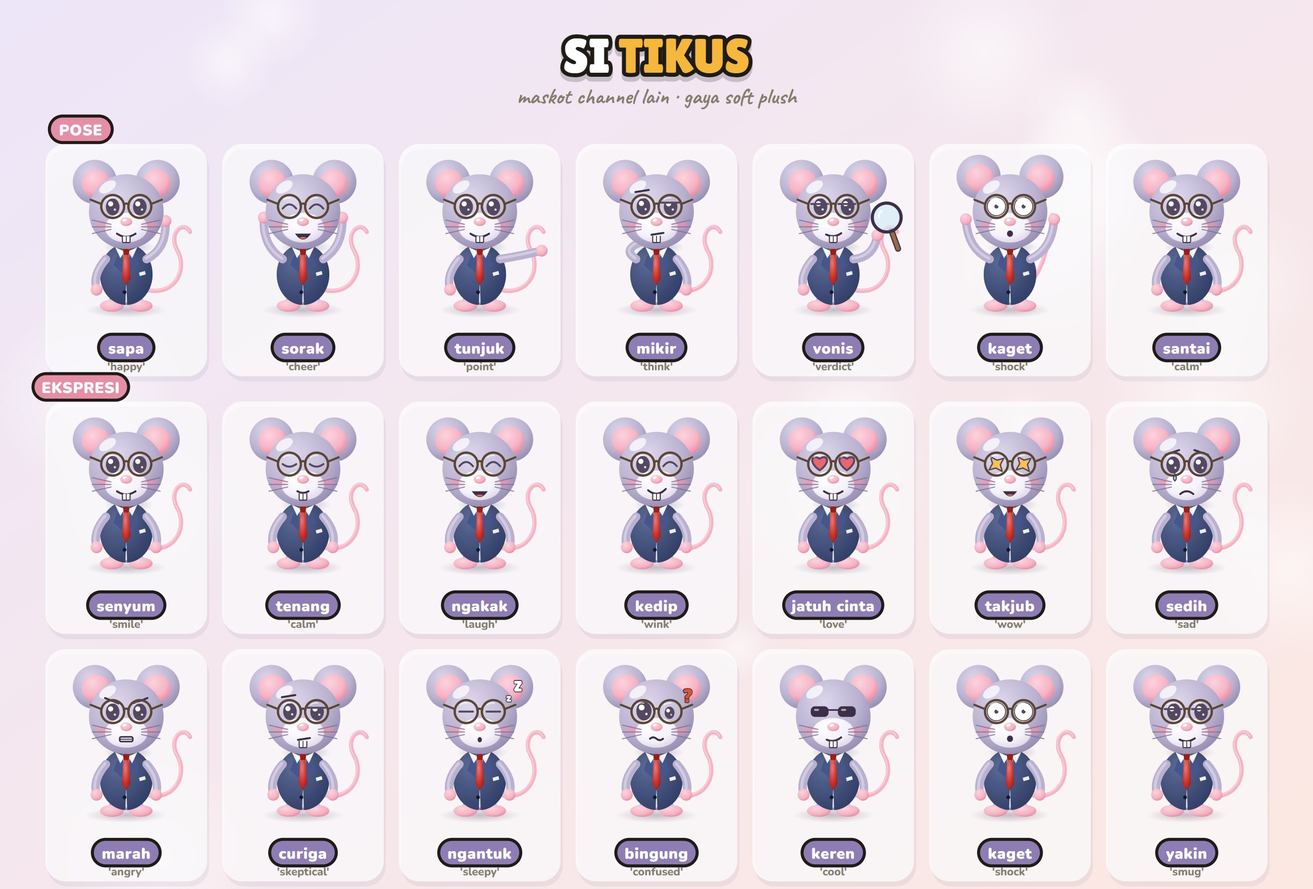
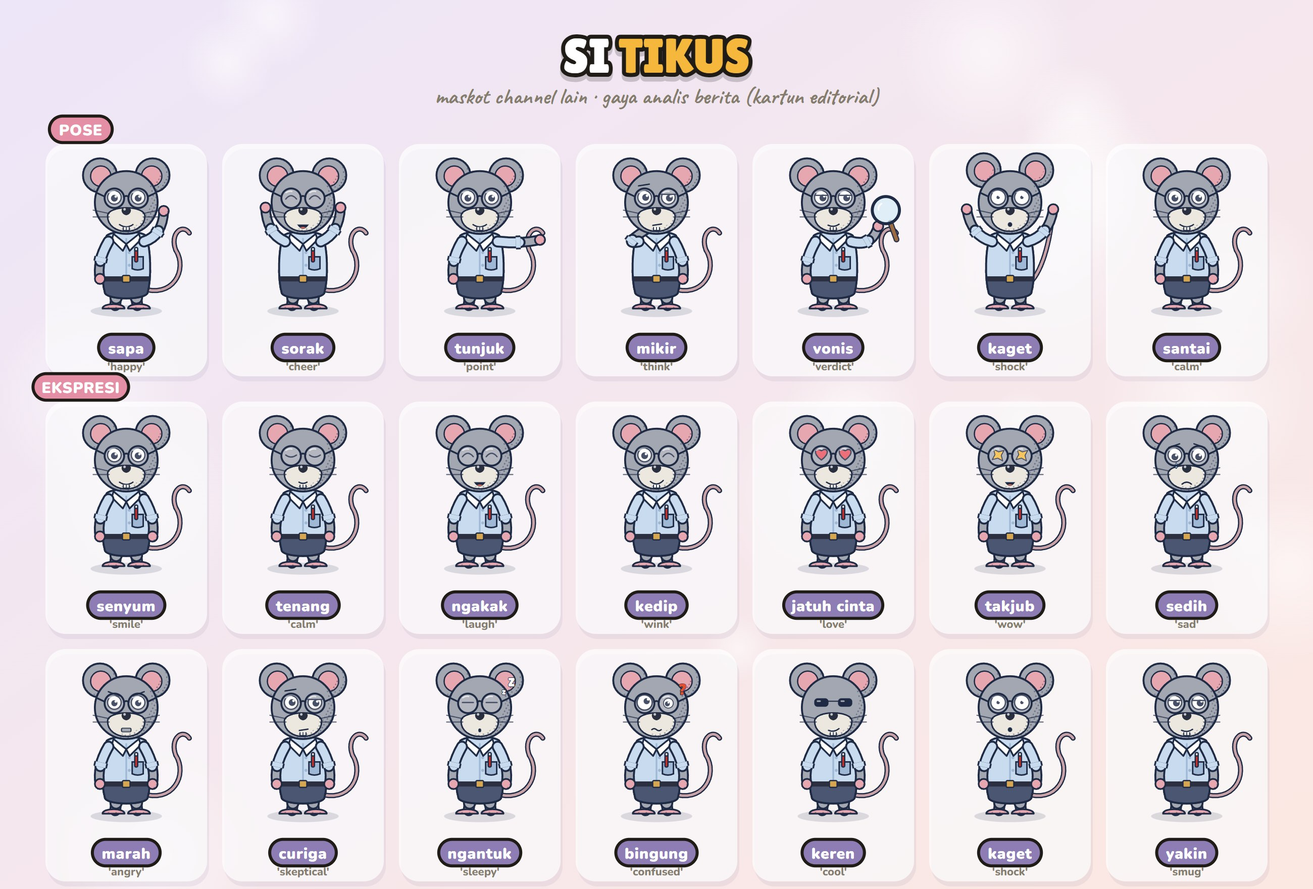
Redraw Si Tikus as a news analyst in an editorial-cartoon style
The soft plush, kawaii mouse in a suit and red tie did not fit a politics and
finance channel (and echoed the "tikus berdasi" meme). Si Tikus is now a grey
mouse with grown-up proportions, thin navy lines and halftone-dot shading like
newsprint, in a rolled-up shirt with trousers, glasses and a pen in the
pocket, and never a necktie.

- engine/tikus.js: same API; outfits analis (default), reporter (PERS card),
  profesor (knitted vest), eksekutif (blazer, open collar), kacamata, none
- vol() draws halftone shading with a thin navy line in the newsprint theme,
  so props match the mascot
- model sheet, outfit sheet labels, channel rules, AGENTS.md and README updated

diff --git a/engine/tikus.js b/engine/tikus.js
@@ -1,132 +1,140 @@
-// Si Tikus: a mascot for another channel, in a soft "plush toy" style — no ink outlines, soft gradient
-// shading, glossy highlights and kawaii eyes (a deliberate contrast with Si Cicak's flat ink look).
+// Si Tikus: mascot of the politics & finance channel, drawn like a newspaper's editorial cartoon: a grey mouse
+// with grown-up proportions, thin navy lines, halftone-dot shading like cheap newsprint, and the look of a news
+// analyst (rolled-up shirt sleeves, glasses, a pen in the pocket). No necktie by default: a mouse in a suit and
+// tie echoes the "tikus berdasi" (corrupt official) meme, see channels/tikus/RULES.md.
 //   tikus(x, y, s, pose, t, rot = 0, walk = null, faceKind = null, outfit = MOUSE.outfit)
-//   same poses and faces as cicak(); outfit: 'none' | 'kacamata' (glasses) | 'profesor' (glasses, bow tie,
-//   knitted vest) | 'reporter' (glasses, ID card on a lanyard) | 'eksekutif' (glasses, blazer, necktie)
-// (0, 0) is the middle of the body; the feet are at y ~110, the ears reach y ~-236.
+//   same poses and faces as cicak(); outfit: 'analis' (default: rolled-up shirt, glasses, pen) | 'reporter'
+//   (analis + PERS card on a lanyard) | 'profesor' (knitted vest over the shirt) | 'eksekutif' (blazer, open
+//   collar, still no tie) | 'kacamata' (glasses only) | 'none'
+// (0, 0) is the middle of the body; the feet are at y ~135, the ears reach y ~-222.
 
 const MOUSE = {
-  fur: '#B9B1CF', furHi: '#DDD7EC', furLo: '#9087AD', belly: '#F4F1F9', bellyLo: '#DCD5EA',
-  pink: '#F6B3C4', pinkHi: '#FCD3DD', pinkLo: '#E2859F', line: '#3B2F4A', whisker: '#7A7094',
-  frame: '#5B4636', outfit: 'eksekutif',  // channel default, chosen by the owner
+  fur: '#A3A7B2', furLo: '#7E8391', muzzle: '#ECE8E0', pink: '#E7A7B0', nose: '#2A2F3F', line: '#1F2A44',
+  shirt: '#C9DBEF', shirtLo: '#9FB8D6', vest: '#D6A651', blazer: '#2E3B63', pen: '#C8312B', tail: '#C9A3A8',
+  outfit: 'analis',
 };
 
-// gradients are defined inside each drawing; repeated ids are identical, so duplicates are harmless
-function tikusDefs() {
-  const m = MOUSE;
-  const rg = (id, a, b, c) => `<radialGradient id="${id}" cx="38%" cy="30%" r="78%"><stop offset="0" stop-color="${a}"/><stop offset="0.62" stop-color="${b}"/><stop offset="1" stop-color="${c}"/></radialGradient>`;
-  return `<defs>${rg('tkFur', m.furHi, m.fur, m.furLo)}${rg('tkPink', m.pinkHi, m.pink, m.pinkLo)}${rg('tkBelly', '#fff', m.belly, m.bellyLo)}` +
-    `<radialGradient id="tkShadow"><stop offset="0" stop-color="#3B2F4A" stop-opacity="0.28"/><stop offset="1" stop-color="#3B2F4A" stop-opacity="0"/></radialGradient>` +
-    `<radialGradient id="tkBlush"><stop offset="0" stop-color="#FF8FA8" stop-opacity="0.7"/><stop offset="1" stop-color="#FF8FA8" stop-opacity="0"/></radialGradient>` +
-    rg('tkNavy', '#5A6A96', '#34416A', '#1F2944') + rg('tkRed', '#EE7A70', '#C8312B', '#962019') +
-    rg('tkKnit', '#F0CD86', '#D6A651', '#B0802C') + rg('tkShirt', '#FFFFFF', '#F3F4F8', '#D9DCE6') +
-    `<clipPath id="tkBody"><ellipse cx="0" cy="30" rx="62" ry="72"/></clipPath></defs>`;
+// halftone dots for the shadow side (identical defs repeat harmlessly)
+const tikusDefs = () => `<defs><pattern id="tkDots" patternUnits="userSpaceOnUse" width="8" height="8" patternTransform="rotate(30)">` +
+  `<circle cx="4" cy="4" r="1.9" fill="${MOUSE.line}" opacity="0.42"/></pattern></defs>`;
+
+// a shape in the editorial look: flat colour, halftone dots on the side away from the light, thin navy outline
+function tkShape(d, fill, { depth = 10, w = 4.5, rot = 0 } = {}) {
+  const id = `tk${VOL_N++}`, a = (-135 - rot) * Math.PI / 180, lx = Math.cos(a) * depth * 1.41, ly = Math.sin(a) * depth * 1.41;
+  return `<defs><clipPath id="${id}a"><path d="${d}"/></clipPath><clipPath id="${id}b"><path d="${d}" transform="translate(${f(lx)} ${f(ly)})"/></clipPath></defs>` +
+    `<path d="${d}" fill="${fill}"/><g clip-path="url(#${id}a)"><path d="${d}" fill="url(#tkDots)"/><g clip-path="url(#${id}b)"><path d="${d}" fill="${fill}"/></g></g>` +
+    (w ? `<path d="${d}" fill="none" stroke="${MOUSE.line}" stroke-width="${w}" stroke-linejoin="round"/>` : '');
 }
 
-// a rounded limb shaded like the body: mid tone with a soft light streak along it
-const plushLimb = (d, w) => `<path d="${d}" fill="none" stroke="${MOUSE.fur}" stroke-width="${w}" stroke-linecap="round" stroke-linejoin="round"/>` +
-  `<path d="${d}" fill="none" stroke="${MOUSE.furHi}" stroke-width="${f(w * 0.32)}" stroke-linecap="round" opacity="0.7" transform="translate(-2 -2)"/>`;
-const gloss = (x, y, rx, ry, rot = -30, o = 0.7) => `<ellipse cx="${x}" cy="${y}" rx="${rx}" ry="${ry}" fill="#fff" opacity="${o}" transform="rotate(${rot} ${x} ${y})"/>`;
-
-// clothes on the body (under the arms) and at the neck (over the chin), per outfit
-function tikusOutfitBody(outfit) {
-  if (outfit === 'profesor' || outfit === 'eksekutif') {
-    const fill = outfit === 'profesor' ? 'url(#tkKnit)' : 'url(#tkNavy)';
-    let o = `<ellipse cx="0" cy="40" rx="40" ry="56" fill="url(#tkShirt)"/>`;
-    o += `<g clip-path="url(#tkBody)"><path d="M-90,-60 L-12,-60 L0,46 L-4,150 L-90,150 Z M90,-60 L12,-60 L0,46 L4,150 L90,150 Z" fill="${fill}"/>`;
-    if (outfit === 'profesor') {
-      for (let x = -54; x <= 54; x += 12) if (Math.abs(x) > 14) o += `<line x1="${x}" y1="-40" x2="${x}" y2="110" stroke="#9C7426" stroke-width="2" opacity="0.35"/>`;
-      o += `<path d="M-60,96 Q0,112 60,96" fill="none" stroke="#9C7426" stroke-width="6" opacity="0.5"/>`;
-      [56, 76].forEach(y => o += `<circle cx="-7" cy="${y}" r="4.5" fill="#7A5A22"/>`);
-    } else {
-      o += `<path d="M-12,-40 L-30,8 L-6,30 Z M12,-40 L30,8 L6,30 Z" fill="#46568A"/>`;
-      o += `<path d="M30,26 L44,22 L46,30 L32,34 Z" fill="#fff" opacity="0.9"/>`;
-      o += `<path d="M-6,-20 L6,-20 L10,40 L0,56 L-10,40 Z" fill="url(#tkRed)"/>`;
-      o += `<circle cx="-4" cy="72" r="4.5" fill="#141A2E"/>`;
-    }
-    return o + `</g>`;
+// a limb as a navy-edged tube; the upper half can be sleeve, the lower half fur
+function tkLimb(x0, y0, kx, ky, x1, y1, w, upper, lower) {
+  const mx = 0.25 * x0 + 0.5 * kx + 0.25 * x1, my = 0.25 * y0 + 0.5 * ky + 0.25 * y1;
+  const top = `M${f(x0)},${f(y0)} Q${f((x0 + kx) / 2)},${f((y0 + ky) / 2)} ${f(mx)},${f(my)}`;
+  const bot = `M${f(mx)},${f(my)} Q${f((kx + x1) / 2)},${f((ky + y1) / 2)} ${f(x1)},${f(y1)}`;
+  const tube = (d, col, ww) => `<path d="${d}" fill="none" stroke="${MOUSE.line}" stroke-width="${ww + 9}" stroke-linecap="round"/>` +
+    `<path d="${d}" fill="none" stroke="${col}" stroke-width="${ww}" stroke-linecap="round"/>`;
+  let s = tube(bot, lower, w * 0.85) + tube(top, upper, w);
+  if (upper !== lower) {  // the sleeve rolled up into a fat cuff just above the elbow
+    const dx = x1 - x0, dy = y1 - y0, l = Math.hypot(dx, dy) || 1, ux = dx / l, uy = dy / l;
+    const cuff = `M${f(mx - ux * 9)},${f(my - uy * 9)} L${f(mx + ux * 2)},${f(my + uy * 2)}`;
+    s += `<path d="${cuff}" stroke="${MOUSE.line}" stroke-width="${f(w * 1.3 + 8)}" stroke-linecap="butt"/>` +
+      `<path d="${cuff}" stroke="${upper}" stroke-width="${f(w * 1.3)}" stroke-linecap="butt"/>`;
   }
-  if (outfit === 'reporter') {
-    return `<path d="M-18,-34 Q-22,4 -10,26 M18,-34 Q22,4 10,26" fill="none" stroke="#34416A" stroke-width="6" stroke-linecap="round"/>` +
-      `<rect x="-30" y="22" width="60" height="74" rx="8" fill="#5B4A78" opacity="0.15" transform="translate(3 4)"/>` +
-      `<rect x="-30" y="22" width="60" height="74" rx="8" fill="url(#tkShirt)"/>` +
-      `<rect x="-30" y="22" width="60" height="18" rx="8" fill="#C8312B"/><rect x="-30" y="32" width="60" height="8" fill="#C8312B"/>` +
-      `<circle cx="-12" cy="58" r="9" fill="#B9B1CF"/><line x1="2" y1="54" x2="20" y2="54" stroke="#9BA1B3" stroke-width="4" stroke-linecap="round"/>` +
-      `<line x1="2" y1="66" x2="16" y2="66" stroke="#9BA1B3" stroke-width="4" stroke-linecap="round"/><line x1="-20" y1="82" x2="20" y2="82" stroke="#9BA1B3" stroke-width="4" stroke-linecap="round"/>`;
-  }
-  return '';
-}
-
-function tikusOutfitNeck(outfit) {
-  if (outfit === 'profesor')
-    return `<path d="M0,-28 L-30,-42 Q-36,-28 -30,-14 Z M0,-28 L30,-42 Q36,-28 30,-14 Z" fill="url(#tkRed)"/><ellipse cx="0" cy="-28" rx="8" ry="9" fill="#962019"/>`;
-  if (outfit === 'eksekutif')
-    return `<path d="M-26,-34 L-4,-24 L-14,-8 Z M26,-34 L4,-24 L14,-8 Z" fill="url(#tkShirt)"/><path d="M-8,-30 L8,-30 L6,-16 L-6,-16 Z" fill="#962019"/>`;
-  return '';
+  return s;
 }
 
 function tikusGlasses() {
-  const fr = MOUSE.frame;
-  return [-32, 32].map(x => `<circle cx="${x}" cy="-130" r="27" fill="#fff" opacity="0.12"/>` +
-      `<circle cx="${x}" cy="-130" r="27" fill="none" stroke="${fr}" stroke-width="5.5"/>` +
-      `<path d="M${x - 14},-146 Q${x - 6},-152 ${x + 2},-150" fill="none" stroke="#fff" stroke-width="3" stroke-linecap="round" opacity="0.6"/>`).join('') +
-    `<path d="M-6,-134 Q0,-140 6,-134" fill="none" stroke="${fr}" stroke-width="5" stroke-linecap="round"/>` +
-    `<path d="M-59,-136 L-84,-146 M59,-136 L84,-146" stroke="${fr}" stroke-width="5" stroke-linecap="round"/>`;
+  const L = MOUSE.line;
+  return [-28, 28].map(x => `<circle cx="${x}" cy="-128" r="23" fill="#fff" fill-opacity="0.18" stroke="${L}" stroke-width="4.5"/>` +
+    `<path d="M${x - 12},-141 Q${x - 5},-146 ${x + 2},-144" fill="none" stroke="#fff" stroke-width="3" stroke-linecap="round" opacity="0.7"/>`).join('') +
+    `<path d="M-6,-131 Q0,-136 6,-131" fill="none" stroke="${L}" stroke-width="4" stroke-linecap="round"/>` +
+    `<path d="M-51,-132 L-68,-140 M51,-132 L68,-140" stroke="${L}" stroke-width="4" stroke-linecap="round"/>`;
+}
+
+// clothes over the torso, per outfit (the torso path is passed in so the clothes can be clipped to it)
+function tikusClothes(outfit, torso) {
+  const m = MOUSE, L = m.line;
+  if (outfit === 'none' || outfit === 'kacamata') return '';
+  const id = `tkc${VOL_N++}`;
+  let s = `<defs><clipPath id="${id}"><path d="${torso}"/></clipPath></defs><g clip-path="url(#${id})">`;
+  s += tkShape('M-80,-60 L80,-60 L80,140 L-80,140 Z', m.shirt, { depth: 12, w: 0 });
+  s += `<path d="M0,-34 L0,96" stroke="${m.shirtLo}" stroke-width="4"/>` + [0, 30, 60].map(y => `<circle cx="7" cy="${y}" r="3.5" fill="${m.shirtLo}"/>`).join('');
+  // trousers and a belt, so the shirt reads as a shirt
+  s += tkShape('M-80,62 L80,62 L80,140 L-80,140 Z', '#4A5672', { depth: 8, w: 0 }) + `<path d="M-80,62 L80,62" stroke="${L}" stroke-width="4"/>` +
+    `<rect x="-80" y="56" width="160" height="12" fill="#2B2F3F"/><rect x="-9" y="54" width="18" height="16" rx="3" fill="${m.vest}" stroke="${L}" stroke-width="3"/>`;
+  if (outfit === 'profesor') {
+    s += tkShape('M-80,-30 L-14,-30 L0,24 L14,-30 L80,-30 L80,66 L-80,66 Z', m.vest, { depth: 10, w: 4 });
+    for (let x = -60; x <= 60; x += 14) if (Math.abs(x) > 18) s += `<line x1="${x}" y1="-14" x2="${x}" y2="56" stroke="#9C7426" stroke-width="2" opacity="0.4"/>`;
+  }
+  if (outfit === 'eksekutif') {
+    s += tkShape('M-80,-60 L-16,-40 L-4,40 L-6,140 L-80,140 Z', m.blazer, { depth: 8, w: 4 }) + tkShape('M80,-60 L16,-40 L4,40 L6,140 L80,140 Z', m.blazer, { depth: 8, w: 4 });
+    s += `<path d="M-16,-40 L-34,6 L-8,20 Z M16,-40 L34,6 L8,20 Z" fill="#46568A" stroke="${L}" stroke-width="3"/>`;
+  }
+  s += `</g>`;
+  // open collar, no tie
+  s += `<path d="M-30,-44 L0,-20 L-8,-4 L-34,-30 Z M30,-44 L0,-20 L8,-4 L34,-30 Z" fill="#fff" stroke="${L}" stroke-width="4" stroke-linejoin="round"/>`;
+  if (outfit !== 'eksekutif') {  // shirt pocket with a pen, the analyst's badge of office
+    s += `<path d="M14,10 L40,10 L40,38 Q27,44 14,38 Z" fill="${m.shirtLo}" stroke="${L}" stroke-width="3.5"/>`;
+    s += `<rect x="20" y="-8" width="7" height="30" rx="3" fill="${m.pen}" stroke="${L}" stroke-width="3"/><rect x="20" y="-12" width="7" height="8" rx="3" fill="#E9E5DC" stroke="${L}" stroke-width="3"/>`;
+  }
+  if (outfit === 'reporter') {
+    s += `<path d="M-22,-40 Q-30,10 -12,46 M22,-40 Q30,10 12,46" fill="none" stroke="${m.pen}" stroke-width="5" stroke-linecap="round"/>`;
+    s += tkShape(rectD(-30, 40, 60, 70, 8), '#FFFFFF', { depth: 6, w: 4 }) + `<rect x="-30" y="40" width="60" height="18" rx="6" fill="${m.pen}"/>`;
+    s += txt('PERS', 0, 50, 15, '#fff', 900) + `<circle cx="-12" cy="78" r="9" fill="${m.fur}"/><line x1="2" y1="74" x2="20" y2="74" stroke="#9BA1B3" stroke-width="4" stroke-linecap="round"/><line x1="2" y1="88" x2="16" y2="88" stroke="#9BA1B3" stroke-width="4" stroke-linecap="round"/>`;
+  }
+  return s;
 }
 
 function tikus(x, y, s, pose = 'happy', t = 0, rot = 0, walk = null, faceKind = null, outfit = MOUSE.outfit) {
-  const m = MOUSE, wave = 10 * Math.sin(t * 9), sway = 14 * Math.sin(t * 2.5);
+  const m = MOUSE, L = m.line, wave = 10 * Math.sin(t * 9), sway = 12 * Math.sin(t * 2.5);
   const bob = walk !== null ? Math.abs(Math.sin(walk)) * -8 : 0;
   const kind = faceKind || POSE_FACE[pose] || 'smile';
+  const sleeve = outfit === 'none' || outfit === 'kacamata' ? m.fur : outfit === 'eksekutif' ? m.blazer : m.shirt;
   let g = tikusDefs();
-  g += `<ellipse cx="0" cy="${f(114 - bob)}" rx="96" ry="18" fill="url(#tkShadow)"/>`;
-  // tail: lazy S-curve, stiff and straight up when shocked
-  const tail = pose === 'shock' ? 'M34,60 C70,40 92,-30 100,-110'
-    : `M34,62 C110,92 150,20 ${f(120 + sway)},-30 C100,-70 136,-98 ${f(152 + sway)},-70`;
-  g += `<path d="${tail}" fill="none" stroke="${m.pink}" stroke-width="10" stroke-linecap="round"/>` +
-    `<path d="${tail}" fill="none" stroke="${m.pinkHi}" stroke-width="3" stroke-linecap="round" opacity="0.8" transform="translate(-2 -2)"/>`;
+  g += `<ellipse cx="0" cy="${f(138 - bob)}" rx="84" ry="14" fill="${L}" opacity="0.14"/>`;
+  // tail: a lazy S-curve, straight up when shocked
+  const tail = pose === 'shock' ? 'M36,80 C70,60 92,-10 100,-90' : `M36,84 C110,110 146,40 ${f(118 + sway)},-6 C102,-44 132,-70 ${f(150 + sway)},-46`;
+  g += `<path d="${tail}" fill="none" stroke="${L}" stroke-width="12" stroke-linecap="round"/><path d="${tail}" fill="none" stroke="${m.tail}" stroke-width="6" stroke-linecap="round"/>`;
   // legs and feet
   [-1, 1].forEach((sd, i) => {
     const step = walk !== null ? 10 * Math.sin(walk + i * Math.PI) : 0;
-    g += plushLimb(`M${sd * 24},66 L${f(sd * 30 + step)},96`, 22);
-    g += `<ellipse cx="${f(sd * 34 + step)}" cy="104" rx="28" ry="14" fill="url(#tkPink)"/>`;
+    g += tkLimb(sd * 22, 88, sd * 24, 108, sd * 26 + step, 124, 22, m.fur, m.fur);
+    g += tkShape(`M${f(sd * 30 + step - 26)},132 C${f(sd * 30 + step - 26)},118 ${f(sd * 30 + step + 26)},118 ${f(sd * 30 + step + 26)},132 Z`, m.pink, { depth: 4, w: 4 });
   });
-  g += `<ellipse cx="0" cy="30" rx="62" ry="72" fill="url(#tkFur)"/>`;
-  g += `<ellipse cx="0" cy="44" rx="38" ry="47" fill="url(#tkBelly)"/>` + gloss(-30, -10, 14, 8);
-  g += tikusOutfitBody(outfit);
-  // soft shadow the head casts on the shoulders
-  g += `<ellipse cx="6" cy="-34" rx="60" ry="18" fill="url(#tkShadow)"/>`;
+  // torso, then clothes over it
+  const torso = 'M-46,-40 C-58,-10 -60,60 -50,96 C-40,112 40,112 50,96 C60,60 58,-10 46,-40 C30,-52 -30,-52 -46,-40 Z';
+  g += tkShape(torso, m.fur, { depth: 12, rot });
+  g += `<path d="M-30,20 C-30,0 30,0 30,20 C32,70 20,96 0,98 C-20,96 -32,70 -30,20 Z" fill="${m.muzzle}" opacity="${outfit === 'none' || outfit === 'kacamata' ? 1 : 0}"/>`;
+  g += tikusClothes(outfit, torso) + `<path d="${torso}" fill="none" stroke="${L}" stroke-width="4.5" stroke-linejoin="round"/>`;
   // arms: [hand x, hand y, elbow x, elbow y] for left then right
   const arms = {
-    happy: [[-70, 66, -80, 30], [f(100 + wave), -96, 96, -30]],
-    cheer: [[f(-100 - wave), -104, -96, -36], [f(100 + wave), -104, 96, -36]],
-    point: [[-70, 66, -80, 30], [146, -26, 100, -14]],
-    think: [[-26, -50, -86, -30], [70, 66, 80, 30]],
-    verdict: [[-70, 66, -80, 30], [104, -62, 96, -10]],
-    shock: [[-104, -100, -100, -30], [104, -100, 100, -30]],
-    calm: [[-70, 66, -80, 30], [70, 66, 80, 30]],
-  }[pose] || [[-70, 66, -80, 30], [70, 66, 80, 30]];
-  arms.forEach(([ex, ey, kx, ky], i) => {
-    g += plushLimb(`M${i ? 48 : -48},-6 Q${kx},${ky} ${ex},${ey}`, 20) + `<circle cx="${ex}" cy="${ey}" r="14" fill="url(#tkPink)"/>`;
+    happy: [[-62, 62, -70, 22], [f(96 + wave), -98, 86, -40]],
+    cheer: [[f(-96 - wave), -106, -86, -46], [f(96 + wave), -106, 86, -46]],
+    point: [[-62, 62, -70, 22], [142, -30, 96, -20]],
+    think: [[-18, -58, -84, -18], [62, 62, 70, 22]],
+    verdict: [[-62, 62, -70, 22], [106, -62, 92, -12]],
+    shock: [[-102, -102, -92, -40], [102, -102, 92, -40]],
+    calm: [[-62, 62, -70, 22], [62, 62, 70, 22]],
+  }[pose] || [[-62, 62, -70, 22], [62, 62, 70, 22]];
+  arms.forEach(([hx, hy, kx, ky], i) => {
+    g += tkLimb(i ? 42 : -42, -26, kx, ky, +hx, hy, 19, sleeve, m.fur);
+    g += tkShape(circleD(+hx, hy, 12), m.pink, { depth: 3, w: 4 });
   });
   // ears (perk up when shocked), head, muzzle
   const ear = pose === 'shock' ? -12 : 0;
   [-1, 1].forEach(sd => {
-    g += `<circle cx="${sd * 74}" cy="${-188 + ear}" r="52" fill="url(#tkFur)"/>`;
-    g += `<circle cx="${sd * 72}" cy="${-185 + ear}" r="33" fill="url(#tkPink)"/>`;
+    g += tkShape(circleD(sd * 62, -182 + ear, 40), m.fur, { depth: 8 });
+    g += tkShape(circleD(sd * 60, -180 + ear, 24), m.pink, { depth: 5, w: 3 });
   });
-  g += `<circle cx="0" cy="-118" r="88" fill="url(#tkFur)"/>` + gloss(-44, -176, 22, 12, -32, 0.75);
-  g += `<ellipse cx="0" cy="-80" rx="50" ry="35" fill="url(#tkBelly)"/>`;
-  g += `<ellipse cx="-58" cy="-86" rx="22" ry="13" fill="url(#tkBlush)"/><ellipse cx="58" cy="-86" rx="22" ry="13" fill="url(#tkBlush)"/>`;
-  g += face(kind, { lx: -32, rx: 32, ey: -130, er: 20, my: -66, mw: 22, skin: m.fur, style: 'soft', ink: m.line, weight: 6 }, t);
+  g += tkShape(circleD(0, -118, 74), m.fur, { depth: 14, rot });
+  g += tkShape('M-44,-86 C-44,-112 44,-112 44,-86 C44,-62 22,-50 0,-50 C-22,-50 -44,-62 -44,-86 Z', m.muzzle, { depth: 6, w: 3.5 });
+  g += face(kind, { lx: -28, rx: 28, ey: -130, er: 16, my: -66, mw: 16, skin: m.fur, style: 'ink', ink: L, weight: 5 }, t);
   if (outfit !== 'none' && kind !== 'cool') g += tikusGlasses();
-  // buck teeth peek out under smiling mouths
-  if (['smile', 'calm', 'wink', 'love', 'cool', 'smug', 'skeptical'].includes(kind))
-    g += `<path d="M-9,-60 L-9,-48 Q-9,-45 -6,-45 L6,-45 Q9,-45 9,-48 L9,-60" fill="#fff" ${stroke(2.5, m.line)}/><line x1="0" y1="-60" x2="0" y2="-45" ${stroke(2, m.line)}/>`;
-  g += `<ellipse cx="0" cy="-94" rx="14" ry="10" fill="url(#tkPink)"/>` + gloss(-4, -98, 5, 3, -20, 0.9);
-  [[-1, -88, -1], [-1, -82, 0], [-1, -76, 1], [1, -88, -1], [1, -82, 0], [1, -76, 1]].forEach(([sd, wy, tilt]) =>
-    g += `<line x1="${sd * 36}" y1="${wy}" x2="${sd * 80}" y2="${wy + tilt * 10}" ${stroke(2.5, m.whisker)} opacity="0.8"/>`);
-  g += tikusOutfitNeck(outfit);
-  if (pose === 'verdict') g += magnifier(126, -104, 34, -20, m.line);
+  g += `<path d="M-11,-100 C-11,-108 11,-108 11,-100 C11,-92 4,-88 0,-88 C-4,-88 -11,-92 -11,-100 Z" fill="${m.nose}"/><circle cx="-4" cy="-102" r="3" fill="#fff" opacity="0.7"/>`;
+  if (['smile', 'calm', 'wink', 'love', 'cool', 'smug', 'skeptical'].includes(kind))  // two small front teeth
+    g += `<path d="M-7,-60 L-7,-52 L7,-52 L7,-60" fill="#fff" stroke="${L}" stroke-width="2.5"/><line x1="0" y1="-60" x2="0" y2="-52" stroke="${L}" stroke-width="2"/>`;
+  [[-1, -92, -1], [-1, -84, 0], [1, -92, -1], [1, -84, 0]].forEach(([sd, wy, tilt]) =>
+    g += `<line x1="${sd * 40}" y1="${wy}" x2="${sd * 78}" y2="${wy + tilt * 8}" stroke="${L}" stroke-width="2.5" stroke-linecap="round" opacity="0.7"/>`);
+  if (pose === 'verdict') g += magnifier(124, -100, 32, -20, L);
   return G(T(x, y + bob, s, rot), 1, g);
 }

diff --git a/engine/lib.js b/engine/lib.js
@@ -181,7 +181,7 @@ const THEMES = {
     grade: { sat: 1.12, contrast: 1.05 },
     head: { mode: 'outline' }, cap: { mode: 'marker', font: 'Nunito', weight: 900, size: 64 },
     stamp: 'rubber', badge: 'round' },
-  newsprint: { texture: 'newsprint', glow: false, vignette: true, fx: 'soft',
+  newsprint: { texture: 'newsprint', glow: false, vignette: true, fx: 'soft', vol: 'halftone',
     grade: { sat: 1.0, contrast: 1.08 },
     palette: { bg: '#E9E5DC', ink: '#18223A', muted: '#5F6676', line: '#C9C3B6', yellow: '#F2C14E', accent: '#C8312B', cool: '#1F4E8C', leaf: '#2E8B57' },
     head: { mode: 'news', font: 'Oswald', weight: 700 }, cap: { mode: 'bar', font: 'Oswald', weight: 500, size: 52 },
@@ -984,6 +984,7 @@ function invertFlash(t, ts, dur = 0.07) {
 // vol(d, fill, opts): a shape (SVG path d) drawn with volume in the theme's style. Light comes from the top
 // left. ink (paper): a cel shadow on the lower right, a highlight on the upper left, ink outline. soft
 // (newsprint): a round gradient and no outline. doodle (notebook): hatching in the shadow, pen outline.
+// newsprint uses halftone dots instead (flat colour, dots in the shadow, thin navy line), matching Si Tikus.
 // opts: {depth (shadow width, world units), w (outline width), shine (highlight on/off),
 //        rot (degrees the drawing is turned by, so the light stays top-left on screen)}
 let VOL_N = 0;
@@ -994,6 +995,13 @@ function vol(d, fill, { depth = 14, w = STROKE, shine = true, rot = 0 } = {}) {
   const id = `vol${VOL_N++}`, dark = mix(fill, C.ink, 0.3), light = mix(fill, '#fff', 0.5);
   // the light's direction (top-left on screen) in the drawing's own turned coordinates
   const a = (-135 - rot) * Math.PI / 180, lx = Math.cos(a) * depth * 1.41, ly = Math.sin(a) * depth * 1.41;
+  if (TH.vol === 'halftone') {  // newsprint: flat colour, halftone dots on the shadow side, thin navy line (like Si Tikus)
+    return `<defs><pattern id="htDots" patternUnits="userSpaceOnUse" width="8" height="8" patternTransform="rotate(30)">` +
+      `<circle cx="4" cy="4" r="1.9" fill="${C.ink}" opacity="0.42"/></pattern><clipPath id="${id}a"><path d="${d}"/></clipPath>` +
+      `<clipPath id="${id}b"><path d="${d}" transform="translate(${f(lx)} ${f(ly)})"/></clipPath></defs><path d="${d}" fill="${fill}"/>` +
+      `<g clip-path="url(#${id}a)"><path d="${d}" fill="url(#htDots)"/><g clip-path="url(#${id}b)"><path d="${d}" fill="${fill}"/></g></g>` +
+      (w ? `<path d="${d}" fill="none" stroke="${C.ink}" stroke-width="${f(Math.min(w, 4.5))}" stroke-linejoin="round"/>` : '');
+  }
   if (TH.fx === 'soft') {
     return `<defs><radialGradient id="${id}" cx="36%" cy="30%" r="80%"><stop offset="0" stop-color="${light}"/>` +
       `<stop offset="0.55" stop-color="${fill}"/><stop offset="1" stop-color="${dark}"/></radialGradient></defs><path d="${d}" fill="url(#${id})"/>`;

diff --git a/brand/brand.js b/brand/brand.js
@@ -55,7 +55,7 @@ const DOODLE = {
 //   paper (warm paper, ink), soft (pastel gradient, bokeh, no outlines), notebook (lined page, pen)
 const MASCOT_SHEET = {
   cicak: { draw: cicak, title: 'SI *CICAK*', sub: 'maskot @cicaktahu · gaya tinta flat', s: 0.72, dy: -6, theme: 'paper' },
-  tikus: { draw: tikus, title: 'SI *TIKUS*', sub: 'maskot channel lain · gaya soft plush', s: 0.84, dy: 18, theme: 'soft' },
+  tikus: { draw: tikus, title: 'SI *TIKUS*', sub: 'maskot channel lain · gaya analis berita (kartun editorial)', s: 0.84, dy: 0, theme: 'soft' },
   stickman: { draw: stickman, title: '*STICKMAN*', sub: 'maskot channel lain · gaya doodle', s: 0.84, dy: 0, theme: 'notebook' },
 };
 
@@ -126,15 +126,15 @@ async function renderOutfits() {
   await setupCanvas(W, H, { light: false, texture: false });
   let s = `<rect width="${W}" height="${H}" fill="#E9E5DC"/>`, ui = '';
   ui += titleText('PILIHAN *PAKAIAN* SI TIKUS', 1300, 100, 84, 1600, 14);
-  const opts = [['none', 'polos', ''], ['kacamata', 'kacamata', ''], ['profesor', 'profesor', 'dasi kupu-kupu + rompi rajut'],
-    ['reporter', 'reporter', 'kartu identitas + tali'], ['eksekutif', 'eksekutif', 'jas + dasi: mirip "tikus berdasi"']];
+  const opts = [['analis', 'analis', 'default: kemeja, kacamata, pulpen'], ['reporter', 'reporter', 'kartu PERS + tali'],
+    ['profesor', 'profesor', 'rompi rajut'], ['eksekutif', 'eksekutif', 'jas, kerah terbuka, tanpa dasi'], ['kacamata', 'kacamata', '']];
   opts.forEach(([key, label, note], i) => {
     const cx = 290 + i * 505;
     s += `<rect x="${cx - 230}" y="200" width="460" height="1120" rx="34" fill="#fff" opacity="0.6"/>`;
     s += tikus(cx, 520, 0.95, 'point', 1.3, 0, null, 'smile', key);
     s += tikus(cx, 1010, 0.95, 'verdict', 1.3, 0, null, 'smug', key);
-    ui += pill(label.toUpperCase(), cx, 1230, 34, key === 'eksekutif' ? C.accent : '#34416A');
-    if (note) ui += hand(note, cx, 1290, 34, key === 'eksekutif' ? C.accent : C.muted);
+    ui += pill(label.toUpperCase(), cx, 1230, 34, key === 'analis' ? C.accent : '#34416A');
+    if (note) ui += hand(note, cx, 1290, 34, C.muted);
   });
   put(s, ui);
 }

diff --git a/AGENTS.md b/AGENTS.md
@@ -13,7 +13,7 @@ Nothing is downloaded or generated by an image model: all visuals are drawn by y
 | channel (`script.json` → `"channel"`) | mascot | theme | topics |
 |---|---|---|---|
 | `cicaktahu` — **Cicak Tahu** (`@cicaktahu`), default | Si Cicak (`cicak`, flat ink) | `paper`: warm paper, outlined titles, yellow marker captions | fakta unik, mitos atau fakta, everyday science |
-| `tikus` — name not chosen yet | Si Tikus (`tikus`, soft plush) | `newsprint`: newspaper grey, condensed titles on white strips with a red edge, navy lower-third captions, red label stamps | politics, government, personal finance, economy, investment education |
+| `tikus` — name not chosen yet | Si Tikus (`tikus`, editorial cartoon) | `newsprint`: newspaper grey, condensed titles on white strips with a red edge, navy lower-third captions, red label stamps | politics, government, personal finance, economy, investment education |
 | `stickman` — name not chosen yet | Stickman (`stickman`, doodle) | `notebook`: ruled page with a red margin, handwritten titles and captions, highlighter, circled-word stamps | health, the human body, education |
 
 Each `channels/<id>/` holds `channel.json` (name, handle, tagline, mascot, theme, topics, watermark) and
@@ -254,11 +254,11 @@ All mascots share one API: `name(x, y, s, pose, t, rot = 0, walk = null, faceKin
 | mascot | file | channel | art style |
 |---|---|---|---|
 | `cicak` — Si Cicak, house gecko | `engine/cicak.js` | **@cicaktahu** (this channel) | **flat ink**: thick ink outlines, flat colours, warm paper |
-| `tikus` — Si Tikus, chibi mouse | `engine/tikus.js` | another channel | **soft plush**: no outlines, gradient shading, gloss, kawaii eyes, pastel |
+| `tikus` — Si Tikus, news-analyst mouse | `engine/tikus.js` | another channel | **editorial cartoon**: grey mouse, thin navy lines, halftone-dot shading like newsprint, rolled-up shirt, glasses, no tie |
 | `stickman` — stick figure with a green head | `engine/stickman.js` | another channel | **doodle**: wobbly double pen lines that boil 8×/s, marker fill off the outline, hatching, lined notebook |
 
-Each channel's videos must match its mascot's style: props drawn for a Si Tikus video get soft gradients
-and no ink outlines (see `topics/demo-tikus`); props for a Stickman video use wobbly pen lines that boil
+Each channel's videos must match its mascot's style: props drawn for a Si Tikus video get flat colours, thin
+navy lines and halftone dots in the shadow (`vol` does this by itself in the newsprint theme); props for a Stickman video use wobbly pen lines that boil
 (see `doodle()` in `topics/demo-stickman`). Headlines, captions, stamps, chapter badges, `cite` and the page
 texture follow the channel theme by themselves (`THEMES` in `engine/lib.js`); in the newsprint theme use
 stamp labels like `HOAKS` / `FAKTA` / `MENYESATKAN`. `face()` takes the art style through its geometry

diff --git a/channels/tikus/RULES.md b/channels/tikus/RULES.md
@@ -1,6 +1,6 @@
 # Channel Si Tikus — rules (politik, pemerintahan, keuangan, investasi)
 
-Mascot **Si Tikus** (`tikus`, soft plush style), theme **newsprint** (newspaper grey, condensed news titles,
+Mascot **Si Tikus** (`tikus`, editorial-cartoon news analyst), theme **newsprint** (newspaper grey, condensed news titles,
 lower-third captions). Channel name and handle are not chosen yet (`channel.json`).
 
 These topics carry legal and reputational risk. The rules below are stricter than `AGENTS.md` and win over it.
@@ -20,12 +20,13 @@ These topics carry legal and reputational risk. The rules below are stricter tha
   "diduga" claims need a named, reputable source. No insults, nicknames or mockery of real people.
 - Do **not** use the mascot or the word "tikus" as a joke about corruption or about any real person or office
   (in Indonesia "tikus" is slang for a corrupt official); Si Tikus is a friendly explainer.
-- Si Tikus wears the **eksekutif** outfit by default (glasses, blazer, necktie: `tikus(..., outfit)`, default
-  in `MOUSE.outfit`). Because a mouse in a suit and tie echoes the "tikus berdasi" (koruptor) meme, keep it
-  reading as a friendly analyst: never draw it with money bags, cash under the table, a mask, bars or a prison,
+- Si Tikus is drawn as a **news analyst** in an editorial-cartoon style (grey mouse, thin navy lines, halftone
+  shading) and wears the **analis** outfit by default (rolled-up shirt, glasses, a pen in the pocket, no tie:
+  `tikus(..., outfit)`, default in `MOUSE.outfit`). It never wears a necktie: a mouse in a suit and tie echoes
+  the "tikus berdasi" (koruptor) meme (`eksekutif` is a blazer with an open collar). Keep it reading as a friendly analyst: never draw it with money bags, cash under the table, a mask, bars or a prison,
   sneaking or grabbing poses, or next to officials, parliament or party symbols; keep its faces friendly
   (`smile`, `skeptical`, `smug`, `wow`), never sly or greedy. For `cek fakta` videos the `reporter` outfit
-  (glasses + ID card) fits better; `profesor` works for long explainers.
+  (PERS card on a lanyard) fits better; `profesor` (knitted vest) works for long explainers.
 - No content that could mislead about elections (dates, places, how to vote); during campaign periods prefer
   procedural explainers from KPU/Bawaslu sources.
 - No SARA framing.

diff --git a/README.md b/README.md
@@ -6,7 +6,7 @@ tema visual, dan aturan kontennya sendiri (di `channels/<id>/`):
 | Channel | Maskot | Tema | Topik |
 |---|---|---|---|
 | **Cicak Tahu** (`@cicaktahu`) | Si Cicak (flat ink) | kertas hangat | fakta unik, mitos atau fakta |
-| *(nama belum ada)* `tikus` | Si Tikus (soft plush) | koran | politik, pemerintahan, keuangan, investasi |
+| *(nama belum ada)* `tikus` | Si Tikus (kartun editorial, gaya analis berita) | koran | politik, pemerintahan, keuangan, investasi |
 | *(nama belum ada)* `stickman` | Stickman (doodle) | buku tulis | kesehatan, tubuh manusia, edukasi |
 
 Topik memilih channel lewat `"channel"` di `script.json` (default `cicaktahu`). Semua visual digambar lewat kode (SVG), suara dari TTS, dirender dengan
